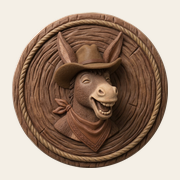
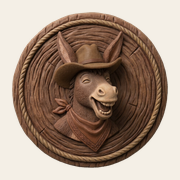
Add files via upload

diff --git a/index.html b/index.html
@@ -18,7 +18,12 @@
   * { box-sizing: border-box; }
   body { margin:0; background:var(--bg); color:var(--ink); font:16px/1.5 system-ui, -apple-system, "Segoe UI", sans-serif; }
   main { max-width:720px; margin:0 auto; padding:24px 16px 64px; }
-  .hero { display:block; width:100%; height:auto; border-radius:14px; margin:0 0 18px; box-shadow:0 2px 14px rgba(60,40,20,.25); }
+  /* Dark frame so the logo looks right on light or dark pages. 120% of the text column, never wider than the screen. */
+  .hero { position:relative; left:50%; transform:translateX(-50%); width:min(120%, calc(100vw - 24px)); margin:0 0 22px;
+          padding:clamp(12px, 3.2vw, 30px); border:2px solid #3b3126; border-radius:18px;
+          background:radial-gradient(120% 140% at 50% 30%, #2d261e 0%, #1a1713 62%, #100e0c 100%);
+          box-shadow:0 8px 28px rgba(0,0,0,.35), inset 0 0 0 1px rgba(255,255,255,.06), inset 0 2px 20px rgba(0,0,0,.55); }
+  .hero img { display:block; width:100%; height:auto; filter:drop-shadow(0 6px 10px rgba(0,0,0,.55)); }
   h1 { margin:0 0 4px; font-size:28px; }
   h2 { font-size:17px; margin:0 0 12px; }
   .meta { color:var(--muted); margin:0 0 4px; }
@@ -59,13 +64,20 @@
   .note b { font-weight:600; } .note time { color:var(--muted); font-size:12px; margin-left:6px; }
   .empty { color:var(--muted); font-size:14px; }
   .hp { position:absolute; left:-9999px; }
-  footer { margin-top:28px; color:var(--muted); font-size:12px; }
+  footer { margin-top:28px; color:var(--muted); font-size:13px; display:grid; gap:6px; }
+  footer a { color:var(--accent); font-weight:600; }
 </style>
 </head>
 <body>
 <main>
-  <img class="hero" src="swampass-header.jpg" width="1584" height="672" fetchpriority="high"
-       alt="Swampass, Alpharetta, GA: a banjo-playing donkey, a gator in the water and a dancing turtle in a mossy swamp under a mothman moon">
+  <header class="hero">
+    <!-- phones get a tighter crop (sign + gator) so the lettering stays readable -->
+    <picture>
+      <source media="(max-width: 600px)" srcset="swampass-header-mobile.webp" width="710" height="589">
+      <img src="swampass-header.webp" width="1517" height="589" fetchpriority="high"
+           alt="Swampass, Alpharetta, GA: a banjo-playing donkey, a gator in the water and a dancing turtle in a mossy swamp">
+    </picture>
+  </header>
   <h1 id="title">Weekly Jam</h1>
   <p class="meta" id="when"></p>
   <p class="meta" id="where"></p>
@@ -92,12 +104,12 @@
         <label><input type="radio" name="status" value="no"> Can't make it</label>
       </div>
       <label>Note for the group (optional) <input type="text" name="note" maxlength="280" autocapitalize="sentences" placeholder="Running 15 min late, bringing a keyboard..."></label>
-      <label class="check"><input type="checkbox" name="remind" checked> Email me a reminder before each jam (needs an email)</label>
+      <label class="check"><input type="checkbox" name="remind" checked> Email me reminders and links to the recordings (needs an email)</label>
       <input class="hp" type="text" name="website" tabindex="-1" autocomplete="off" aria-hidden="true">
       <div><button class="primary" type="submit" id="rsvpBtn">Save RSVP</button></div>
       <div class="msg" id="rsvpMsg" role="status"></div>
     </form>
-    <p class="sub">Your email and phone are only used to recognize you and send reminders, and are never shown to others. RSVP again with the same email or phone to change your answer.</p>
+    <p class="sub">Your email and phone are only used to recognize you and send reminders and recording links, and are never shown to others. RSVP again with the same email or phone to change your answer.</p>
   </section>
 
   <section class="card">
@@ -117,7 +129,10 @@
     </form>
   </section>
 
-  <footer>Posting a note uses the name from your RSVP form.</footer>
+  <footer>
+    <div><a id="songsLink" href="#" target="_blank" rel="noopener" hidden>Listen to recordings from past nights</a></div>
+    <div>Posting a note uses the name from your RSVP form.</div>
+  </footer>
 </main>
 
 <script>
@@ -126,7 +141,7 @@
 const APPS_SCRIPT_URL = 'https://script.google.com/macros/s/AKfycbxEu_AMc_AqwV0cv-DgQMIhd-JvyEzBuiLe3BPFyKoYjhoiR7jvJ43mMdS0JrNYcaAQ/exec';
 
 // Used only in demo mode; live mode reads these from the script's CONFIG.
-const DEMO_CONFIG = { name:'Weekly Jam', description:'Bring an instrument. All levels welcome.', dayOfWeek:4,
+const DEMO_CONFIG = { songsUrl:'https://1drv.ms/f/c/553b29aac8216806/IgAGaCHIqik7IIBVfHkAAAAAAe1F4ua9FRn_k2zii3dw6bo', name:'Weekly Jam', description:'Bring an instrument. All levels welcome.', dayOfWeek:4,
   startTime:'19:30', durationMin:180, location:'Studio B, 123 Main St', cancelled:[] };
 // =====================
 
@@ -199,6 +214,8 @@ function renderHeader() {
     + ', ' + fmtTime(cfg.startTime) + ' – ' + fmtTime(addMinutes(cfg.startTime, cfg.durationMin));
   $('where').textContent = cfg.location; $('desc').textContent = cfg.description || '';
   $('demo').hidden = !DEMO;
+  const sl = $('songsLink');
+  if (cfg.songsUrl && /^https:\/\//.test(cfg.songsUrl)) { sl.href = cfg.songsUrl; sl.hidden = false; }
 }
 
 function renderTabs() {

diff --git a/README.md b/README.md
@@ -1,1 +1,72 @@
-# jcstrain.github.io
+# Weekly Jam RSVP page
+
+A static page (`index.html`) plus a Google Sheet + Apps Script backend (`apps-script/Code.gs`).
+
+- Anyone with the link can RSVP with a name plus an email, a phone number, or both (no accounts).
+- Each week is its own event with its own RSVPs and notes. The next 5 dates are shown.
+- Emails and phone numbers live only in your Google Sheet. The public API never returns them.
+- A person is recognized by email or phone, so someone who RSVPs by phone and later adds an email stays one person.
+- When you add a night's recordings link, everyone who RSVP'd Going or Maybe for that night is emailed the link automatically.
+- When you cancel a night in the `Schedule` tab, everyone who RSVP'd Going or Maybe for it is emailed a cancellation notice (with your reason and the next jam).
+- You (and only you) get an email for each brand-new RSVP. Set `OWNER_EMAIL` in `CONFIG`; blank means the Google account that owns the script.
+- The page footer and every email link to your top-level songs folder (`SONGS_URL` in `CONFIG`).
+- An hourly trigger emails everyone on the list about 24 hours before each jam. Reminders are email-only; phone-only people are tracked but not contacted.
+
+## Setup (about 10 minutes)
+
+1. **Create the sheet.** New Google Sheet, then Extensions > Apps Script.
+2. **Paste the backend.** Replace the editor contents with `apps-script/Code.gs`. Edit `CONFIG` at the top (name, day, time, location, time zone, `SITE_URL`, `REPLY_TO`). `SITE_URL` is already set to your GitHub Pages address..
+3. **Run `setup`.** Pick `setup` in the function dropdown and click Run. Approve the permissions (sheet + send mail). This creates the `Members`, `RSVPs` and `Notes` tabs and the hourly reminder trigger.
+4. **Deploy.** Deploy > New deployment > Web app. Execute as: **Me**. Who has access: **Anyone**. Copy the `/exec` URL.
+5. **Wire up the page.** Paste that URL into `APPS_SCRIPT_URL` near the bottom of `index.html`.
+6. **Host `index.html`.** Any static host works (GitHub Pages, Netlify, Cloudflare Pages). Put the final URL in `SITE_URL` in `CONFIG` so reminder emails link back. If you edit `Code.gs` later, use Deploy > Manage deployments > Edit > New version.
+7. **Share the link** with your list.
+
+Open `index.html` before step 5 to preview in demo mode (data stays in your browser).
+
+## Using it
+
+- **Your existing list:** paste emails into the `Members` tab (just the `email` column, plus `name` if you like). They'll get reminders; blank `subscribed` counts as yes. Phone numbers go in the `phone` column (10-digit US numbers are assumed +1; use a leading `+` for other countries).
+- **Upgrading an older sheet:** paste the new `Code.gs`, run `setup` once (it adds the new `phone` and `member` columns without touching your data), then Deploy > Manage deployments > Edit > New version.
+- **Cancel or add dates (owner only):** open the `Schedule` tab in your Google Sheet. Only people with access to the sheet can edit it, and changes show on the page immediately with no redeploy.
+  - Cancel a regular jam: put the date in column A and `cancel` in column B. Optional reason in column E (shown on the page). The date gets a strikethrough tab, RSVPs are closed and no reminder is sent.
+  - Add a one-off jam: date in A, `add` in B. Optional time (`19:30` or `7:30 PM`) in C, location in D, and note in E. Blank time and location use your regular ones. One-offs show up once they fall inside the window of dates the page already lists (the next 5 regular jams).
+  - Dates can be typed as `2026-12-24` or `12/24/2026`. Delete a row to undo it.
+- **Change the slot:** edit `DAY_OF_WEEK` / `START_TIME`, redeploy.
+- **Reminder content:** date/time/location, the viewer's own RSVP status, who's going, the latest notes, an RSVP link and a one-click unsubscribe. People who RSVP'd "can't make it" are skipped.
+- **Unsubscribe:** the link in each email, or the person unchecks the reminder box when RSVPing.
+
+## Notes and limits
+
+- The web app is public by design, so anyone with the link can post RSVPs/notes. A honeypot field, input length caps and formula-injection guarding are included, but there are no logins. Delete junk rows in the sheet if needed.
+- Gmail's script quota is about 100 recipients/day (1,500 on Workspace), which is plenty for a jam list.
+- Reminder timing is checked hourly, so emails arrive within an hour of the 24-hour mark.
+
+## Recordings: email the link to everyone who was there
+
+Open the `Recordings` tab in your Google Sheet (it's created by `setup`). Add one row per night:
+
+| date | url | note | notified_url / notified_at / sent_to |
+|---|---|---|---|
+| 2026-11-20 | `https://1drv.ms/f/c/...` (that night's OneDrive folder link) | optional message | filled in by the script |
+
+- **What happens:** as soon as a row has a valid date and an `https://` link, everyone who RSVP'd **Going or Maybe** for that night gets an email with the link, a line saying they can listen without logging in to OneDrive, your optional note, the top-level songs link and an unsubscribe link. People who said Can't make it, have no email, or unsubscribed are skipped.
+- **Updating a record:** change the `url` and everyone is emailed again with the new link. Editing only the note does not re-send. To re-send the same link, clear the `notified_url` cell on that row.
+- **Paste the link in one go.** The email goes out the moment the link is saved, so paste it rather than typing it, and double-check it's the right folder.
+- **The link must work without a login.** In OneDrive, set the share link to **Anyone with the link can view** (not "specific people"), and test it in a private browser window before adding it to the sheet.
+- **Safety net:** if an email batch can't finish (for example, the daily email quota runs out), the hourly job finishes it and never double-sends to people already emailed.
+- **Try it first:** in the Apps Script editor, pick `testRecordingEmail` and Run. It emails a sample notice to you.
+
+## Files to upload to GitHub (same folder)
+
+`index.html`, `swampass-header.webp`, `swampass-header-mobile.webp`, `favicon.ico`, `favicon-32.png`, `favicon-192.png`, `apple-touch-icon.png`. You can delete the old `swampass-header.jpg`.
+
+After pasting a new `Code.gs`: run `setup` once (it creates the `Recordings` tab and the instant-send trigger), then Deploy > Manage deployments > Edit > New version > Deploy.
+
+## Cancellation notices and RSVP alerts
+
+- **Cancel a night:** in the `Schedule` tab, enter the date and `cancel` in the action column. Everyone who RSVP'd **Going or Maybe** for that date (with an email, not unsubscribed) is emailed right away: the night is cancelled, your reason, the next jam, the songs link and an unsubscribe link. The script fills in `notified_at` and `sent_to` so nobody is emailed twice, and the hourly job finishes any batch that didn't complete.
+- **Fill in the reason first.** The email goes out as soon as the row has a date and `cancel`, and the note is included in it, so type the note before you choose `cancel` (or enter the date last). Double-check the date: a wrong date emails that night's RSVPs.
+- **Only dates still ahead** are announced, and removing the row doesn't send anything. Cancelling via `CONFIG.CANCELLED` still works for the page but sends no email, so use the `Schedule` tab.
+- **New RSVP alerts:** you get one email per new RSVP with the name, answer, instrument, note, email, phone, the running count for that night and a link to the sheet. Changing an existing RSVP doesn't email you, and no one else is ever copied.
+- **Where the songs link is used:** `SONGS_URL` in `CONFIG` is shown in the page footer (served to the page through the config the script publishes) and added to every email to RSVPs (reminders, recording notices and cancellations).
